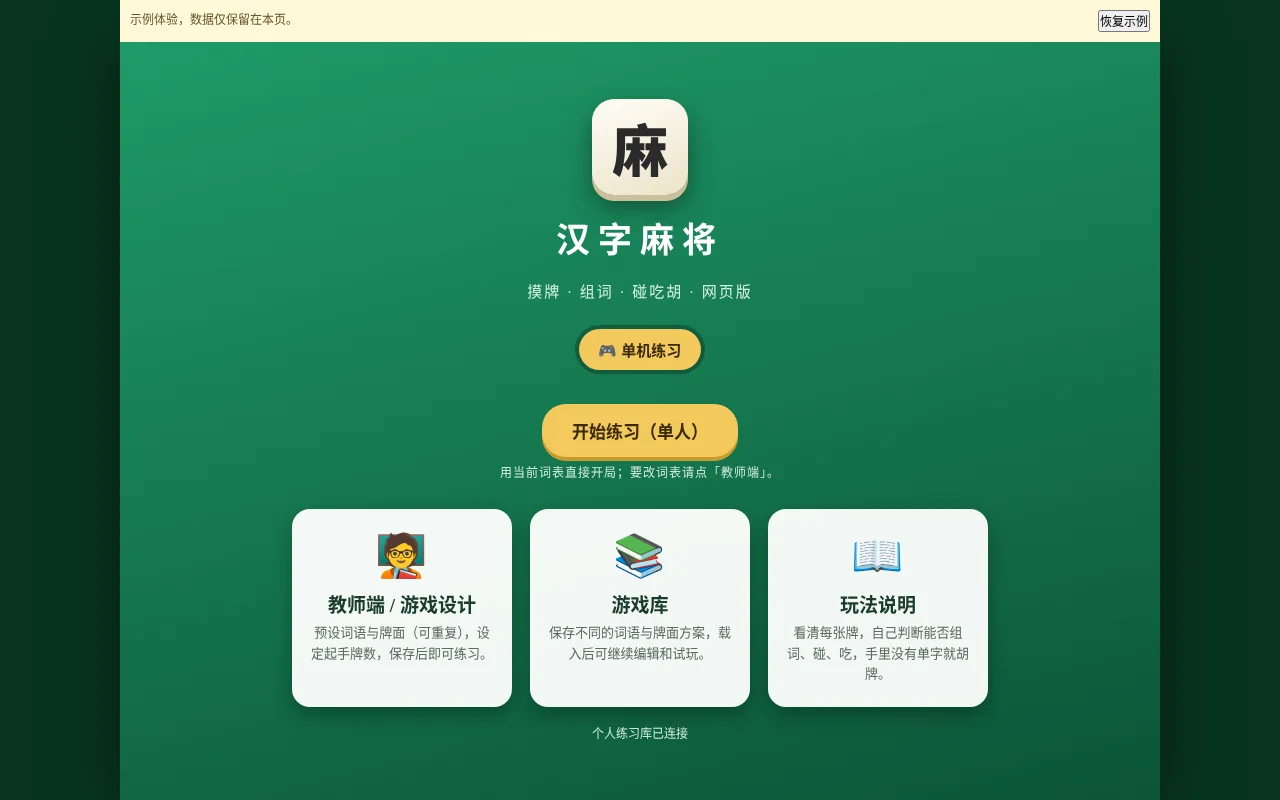
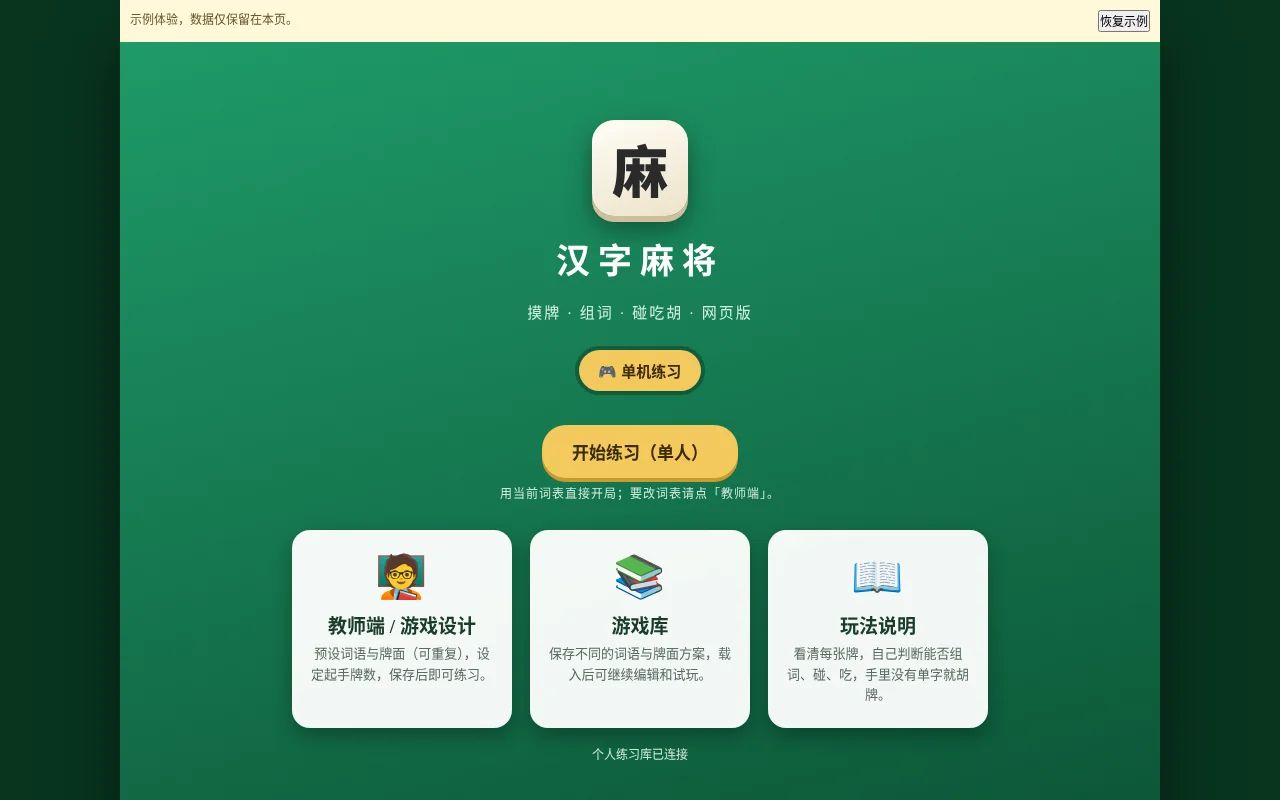
fix(wb-hanzi-mahjong): preserve hosted footer in normal document flow

Changed region(s): [[0.2188, 0.125, 0.7812, 0.9688]]

diff --git a/wb-hanzi-mahjong/showcase/preview.html b/wb-hanzi-mahjong/showcase/preview.html
@@ -1,4 +1,4 @@
-<!doctype html><html lang="zh-CN"><head><meta charset="UTF-8"><meta name="viewport" content="width=device-width,initial-scale=1"><title>汉字麻将 · 示例体验</title><style>body{flex-direction:column;align-items:center}body>aside{width:min(100vw,1040px);flex-shrink:0}#app{height:calc(100dvh - 42px)}</style></head><body><aside style="font:12px system-ui;background:#fff8d9;color:#68562a;padding:10px;display:flex;justify-content:space-between;gap:10px;position:relative;z-index:100"><span>示例体验，数据仅保留在本页。</span><button id="demo-reset" style="font:inherit;cursor:pointer">恢复示例</button></aside><div id="app"></div><script>"use strict";(()=>{function de(){return globalThis.crypto?.randomUUID?.()||Array.from(globalThis.crypto.getRandomValues(new Uint8Array(16)),e=>e.toString(16).padStart(2,"0")).join("")}var R=class{constructor({id:t=de(),read:i,insert:r,args:a}){this.id=t,this.read=i,this.insert=r,this.args=Object.freeze([...a(t)]),this.saved=!1,this.pending=null}async run(t){if(this.saved)return{status:"already-saved",id:this.id};if(this.pending)return this.pending;this.pending=this.perform(t);try{return await this.pending}finally{this.pending=null}}async perform(t){if((await t(this.read,[this.id])).length)return this.saved=!0,{status:"confirmed-by-read",id:this.id};try{return await t(this.insert,this.args),this.saved=!0,{status:"saved",id:this.id}}catch{try{if((await t(this.read,[this.id])).length)return this.saved=!0,{status:"confirmed-after-response-loss",id:this.id}}catch{}throw Error("\u4FDD\u5B58\u5C1A\u672A\u786E\u8BA4\u3002\u518D\u6B21\u4FDD\u5B58\u4F1A\u5148\u6838\u5BF9\u540C\u4E00\u8BB0\u5F55\uFF0C\u8BF7\u52FF\u53E6\u5EFA\u526F\u672C\u3002")}}};var A=["\u4E2D\u56FD","\u4EBA\u6C11","\u6587\u5316","\u5C71\u6C34","\u5B66\u4E60","\u670B\u53CB","\u5929\u7A7A","\u5927\u5730","\u5B66\u6821","\u8001\u5E08"];function P(e){let t={};for(let i of e)t[i]=(t[i]||0)+1;return t}function I(e,t){let i=P(e);return[...t].every(r=>--i[r]>=0)}function q(e,t){return t.find(i=>i.length===e.length&&I(e,i))||null}function $(e,t,i=new Map){let r=[...e].sort().join("");if(!r)return[];if(i.has(r))return i.get(r);for(let a of t){if(!a.includes(r[0])||!I(e,a))continue;let s=[...e];for(let g of a)s.splice(s.indexOf(g),1);let p=$(s,t,i);if(p){let g=[a,...p];return i.set(r,g),g}}return i.set(r,null),null}function pe(e,t=Math.random){for(let i=e.length-1;i>0;i--){let r=Math.floor(t()*(i+1));[e[i],e[r]]=[e[r],e[i]]}return e}var D=class{constructor(t,i=Math.random){if(this.config=t,this.rng=i,this.wall=pe([...t.tiles],i),this.wall.length<t.handSize*4+1)throw Error("\u724C\u9762\u4E0D\u8DB3\uFF0C\u8BF7\u589E\u52A0\u4EFD\u6570\u6216\u51CF\u5C11\u8D77\u624B\u724C\u3002");this.hands=[[],[],[],[]],this.melds=[[],[],[],[]],this.scores=[1e3,1e3,1e3,1e3],this.discards=[],this.turn=0,this.phase="turn",this.winner=null,this.log=[];for(let r=0;r<t.handSize;r++)for(let a of this.hands)a.push(this.wall.pop());this.draw()}draw(){if(!this.wall.length){this.phase="end",this.log.push("\u724C\u5DF2\u6478\u5C3D\uFF0C\u672C\u5C40\u6D41\u5C40");return}this.hands[this.turn].push(this.wall.pop()),this.phase="turn"}remove(t,i){for(let r of i)this.hands[t].splice(this.hands[t].indexOf(r),1)}words(t){return this.config.words.filter(i=>I(this.hands[t],i))}meld(t,i,r=!1){let a=[...i];r&&a.splice(a.indexOf(this.last.tile),1),this.remove(t,a),this.melds[t].push(i),this.scores[t]+=r?20:10,this.log.push(`${t===0?"\u6211":"\u7535\u8111"+t}\uFF1A${r?"\u78B0\u5403":"\u7EC4\u8BCD"}\u300C${i}\u300D`),r&&this.discards.pop()}win(t,i=null){let r=i!==null&&this.last?.by===i?[this.last.tile]:[];if(this.winningWords=$([...this.hands[t],...r],this.config.words)||[],this.winner=t,this.scores[t]+=300,i===null)for(let a=0;a<4;a++)a!==t&&(this.scores[a]-=100);else this.scores[i]-=300;this.phase="end",this.log.push(`${t===0?"\u6211":"\u7535\u8111"+t}${i===null?"\u81EA\u6478":"\u80E1\u724C"}\uFF01`)}self(t){if(this.phase!=="turn"||this.turn!==0)throw Error("\u8BF7\u7B49\u5F85\u4F60\u7684\u56DE\u5408");let i=q(t.map(r=>this.hands[0][r]),this.config.words);if(!i)throw Error("\u9009\u4E2D\u7684\u6C49\u5B57\u5C1A\u4E0D\u80FD\u7EC4\u6210\u8BCD\u5E93\u4E2D\u7684\u8BCD");this.meld(0,i),this.hands[0].length||this.win(0)}hu(){let t=this.phase==="claim"?[this.last.tile]:[];if($([...this.hands[0],...t],this.config.words)===null)throw Error("\u4ECD\u6709\u843D\u5355\u7684\u5B57\uFF0C\u6682\u65F6\u4E0D\u80FD\u80E1\u724C");this.win(0,this.phase==="claim"?this.last.by:null)}discard(t){if(this.phase!=="turn"||this.turn!==0)throw Error("\u5F53\u524D\u4E0D\u80FD\u51FA\u724C");if(!Number.isInteger(t)||t<0||t>=this.hands[0].length)throw Error("\u8BF7\u9009\u62E9\u4E00\u5F20\u724C");this.put(0,t),this.resolve()}put(t,i){let r=this.hands[t].splice(i,1)[0];this.last={tile:r,by:t},this.discards.push(this.last)}claim(t,i){if(this.phase!=="claim")throw Error("\u5F53\u524D\u6CA1\u6709\u5F85\u54CD\u5E94\u5F03\u724C");if(i==="\u5403"&&this.last.by!==3)throw Error("\u53EA\u80FD\u5403\u4E0A\u5BB6\u5F03\u724C");let r=q([...t.map(a=>this.hands[0][a]),this.last.tile],this.config.words);if(!r)throw Error("\u5F03\u724C\u4E0E\u6240\u9009\u624B\u724C\u4E0D\u80FD\u7EC4\u6210\u8BCD");this.meld(0,r,!0),this.turn=0,this.phase="turn",this.hands[0].length||this.win(0,this.last.by)}resolve(){let{tile:t,by:i}=this.last;for(let r=1;r<4;r++){let a=(i+r)%4;if(a&&$([...this.hands[a],t],this.config.words)!==null){this.win(a,i);return}}if(i!==0){this.phase="claim";return}this.pass()}pass(){let{tile:t,by:i}=this.last;for(let r=1;r<4;r++){let a=(i+r)%4;if(!a)continue;let s=this.config.words.find(p=>p.includes(t)&&I([...this.hands[a],t],p));if(s){this.meld(a,s,!0),this.turn=a,this.phase="turn";return}}this.turn=(i+1)%4,this.draw()}ai(){if(this.phase!=="turn"||this.turn===0)return;let t=this.turn;if($(this.hands[t],this.config.words)!==null){this.win(t);return}for(;this.words(t).length;)this.meld(t,this.words(t)[0]);if(!this.hands[t].length){this.win(t);return}let i=0,r=-1/0;for(let a=0;a<this.hands[t].length;a++){let s=this.hands[t].filter((V,J)=>a!==J),p=P(s),g=this.config.words.reduce((V,J)=>V+[...J].reduce((oe,le)=>oe+(p[le]?1:0),0)**2,0)+this.rng();g>r&&(i=a,r=g)}this.put(t,i),this.resolve()}};var ce={practice_sets:[{id:"example-vocabulary",name:"\u5E38\u7528\u6C49\u5B57",config:'{"words": ["\u4E2D\u56FD", "\u4EBA\u6C11", "\u6587\u5316", "\u5C71\u6C34", "\u5B66\u4E60", "\u670B\u53CB", "\u5929\u7A7A", "\u5927\u5730", "\u5B66\u6821", "\u8001\u5E08"], "tiles": ["\u4E2D", "\u56FD", "\u4EBA", "\u6C11", "\u6587", "\u5316", "\u5C71", "\u6C34", "\u5B66", "\u4E60", "\u670B", "\u53CB", "\u5929", "\u7A7A", "\u5927", "\u5730", "\u5B66", "\u6821", "\u8001", "\u5E08", "\u4E2D", "\u56FD", "\u4EBA", "\u6C11", "\u6587", "\u5316", "\u5C71", "\u6C34", "\u5B66", "\u4E60", "\u670B", "\u53CB", "\u5929", "\u7A7A", "\u5927", "\u5730", "\u5B66", "\u6821", "\u8001", "\u5E08", "\u4E2D", "\u56FD", "\u4EBA", "\u6C11", "\u6587", "\u5316", "\u5C71", "\u6C34", "\u5B66", "\u4E60", "\u670B", "\u53CB", "\u5929", "\u7A7A", "\u5927", "\u5730", "\u5B66", "\u6821", "\u8001", "\u5E08"], "handSize": 8}',updated_at:"2026-01-01T10:00:00Z"}],round_reports:[]},k;function H(){k=JSON.parse(JSON.stringify(ce))}H();async function z(e,t=[]){let i=(e.match(/(?:FROM|INTO)\s+(\w+)/i)||[])[1];if(!i)throw Error("\u793A\u4F8B\u64CD\u4F5C\u4E0D\u652F\u6301");if(k[i]??=[],/^SELECT/i.test(e)){let r=[...k[i]];/WHERE id=\?/i.test(e)&&(r=r.filter(s=>s.id===t[0])),/ORDER BY (score|hits) DESC/i.test(e)&&r.sort((s,p)=>p.score-s.score),/ORDER BY .* DESC/i.test(e)&&!/score/i.test(e)&&r.reverse();let a=+(e.match(/LIMIT (\d+)/i)||[])[1]||100;return r.slice(0,a)}if(/^INSERT/i.test(e)){if(k[i].some(a=>a.id===t[0]))return[];let r=e.match(/\(([^)]+)\)/)[1].split(",");return k[i].push(Object.fromEntries(r.map((a,s)=>[a.trim(),t[s]]))),[]}if(/^DELETE/i.test(e))return k[i]=k[i].filter(r=>r.id!==t[0]),[];throw Error("\u793A\u4F8B\u64CD\u4F5C\u4E0D\u652F\u6301")}var X=`
+<!doctype html><html lang="zh-CN"><head><meta charset="UTF-8"><meta name="viewport" content="width=device-width,initial-scale=1"><title>汉字麻将 · 示例体验</title><style>body{flex-direction:column;align-items:center}body>aside{width:min(100vw,1040px);flex-shrink:0;margin-inline:auto}#app{height:calc(100dvh - 42px)}</style></head><body><aside style="font:12px system-ui;background:#fff8d9;color:#68562a;padding:10px;display:flex;justify-content:space-between;gap:10px;position:relative;z-index:100"><span>示例体验，数据仅保留在本页。</span><button id="demo-reset" style="font:inherit;cursor:pointer">恢复示例</button></aside><div id="app"></div><script>"use strict";(()=>{function de(){return globalThis.crypto?.randomUUID?.()||Array.from(globalThis.crypto.getRandomValues(new Uint8Array(16)),e=>e.toString(16).padStart(2,"0")).join("")}var R=class{constructor({id:t=de(),read:i,insert:r,args:a}){this.id=t,this.read=i,this.insert=r,this.args=Object.freeze([...a(t)]),this.saved=!1,this.pending=null}async run(t){if(this.saved)return{status:"already-saved",id:this.id};if(this.pending)return this.pending;this.pending=this.perform(t);try{return await this.pending}finally{this.pending=null}}async perform(t){if((await t(this.read,[this.id])).length)return this.saved=!0,{status:"confirmed-by-read",id:this.id};try{return await t(this.insert,this.args),this.saved=!0,{status:"saved",id:this.id}}catch{try{if((await t(this.read,[this.id])).length)return this.saved=!0,{status:"confirmed-after-response-loss",id:this.id}}catch{}throw Error("\u4FDD\u5B58\u5C1A\u672A\u786E\u8BA4\u3002\u518D\u6B21\u4FDD\u5B58\u4F1A\u5148\u6838\u5BF9\u540C\u4E00\u8BB0\u5F55\uFF0C\u8BF7\u52FF\u53E6\u5EFA\u526F\u672C\u3002")}}};var A=["\u4E2D\u56FD","\u4EBA\u6C11","\u6587\u5316","\u5C71\u6C34","\u5B66\u4E60","\u670B\u53CB","\u5929\u7A7A","\u5927\u5730","\u5B66\u6821","\u8001\u5E08"];function P(e){let t={};for(let i of e)t[i]=(t[i]||0)+1;return t}function I(e,t){let i=P(e);return[...t].every(r=>--i[r]>=0)}function q(e,t){return t.find(i=>i.length===e.length&&I(e,i))||null}function $(e,t,i=new Map){let r=[...e].sort().join("");if(!r)return[];if(i.has(r))return i.get(r);for(let a of t){if(!a.includes(r[0])||!I(e,a))continue;let s=[...e];for(let g of a)s.splice(s.indexOf(g),1);let p=$(s,t,i);if(p){let g=[a,...p];return i.set(r,g),g}}return i.set(r,null),null}function pe(e,t=Math.random){for(let i=e.length-1;i>0;i--){let r=Math.floor(t()*(i+1));[e[i],e[r]]=[e[r],e[i]]}return e}var D=class{constructor(t,i=Math.random){if(this.config=t,this.rng=i,this.wall=pe([...t.tiles],i),this.wall.length<t.handSize*4+1)throw Error("\u724C\u9762\u4E0D\u8DB3\uFF0C\u8BF7\u589E\u52A0\u4EFD\u6570\u6216\u51CF\u5C11\u8D77\u624B\u724C\u3002");this.hands=[[],[],[],[]],this.melds=[[],[],[],[]],this.scores=[1e3,1e3,1e3,1e3],this.discards=[],this.turn=0,this.phase="turn",this.winner=null,this.log=[];for(let r=0;r<t.handSize;r++)for(let a of this.hands)a.push(this.wall.pop());this.draw()}draw(){if(!this.wall.length){this.phase="end",this.log.push("\u724C\u5DF2\u6478\u5C3D\uFF0C\u672C\u5C40\u6D41\u5C40");return}this.hands[this.turn].push(this.wall.pop()),this.phase="turn"}remove(t,i){for(let r of i)this.hands[t].splice(this.hands[t].indexOf(r),1)}words(t){return this.config.words.filter(i=>I(this.hands[t],i))}meld(t,i,r=!1){let a=[...i];r&&a.splice(a.indexOf(this.last.tile),1),this.remove(t,a),this.melds[t].push(i),this.scores[t]+=r?20:10,this.log.push(`${t===0?"\u6211":"\u7535\u8111"+t}\uFF1A${r?"\u78B0\u5403":"\u7EC4\u8BCD"}\u300C${i}\u300D`),r&&this.discards.pop()}win(t,i=null){let r=i!==null&&this.last?.by===i?[this.last.tile]:[];if(this.winningWords=$([...this.hands[t],...r],this.config.words)||[],this.winner=t,this.scores[t]+=300,i===null)for(let a=0;a<4;a++)a!==t&&(this.scores[a]-=100);else this.scores[i]-=300;this.phase="end",this.log.push(`${t===0?"\u6211":"\u7535\u8111"+t}${i===null?"\u81EA\u6478":"\u80E1\u724C"}\uFF01`)}self(t){if(this.phase!=="turn"||this.turn!==0)throw Error("\u8BF7\u7B49\u5F85\u4F60\u7684\u56DE\u5408");let i=q(t.map(r=>this.hands[0][r]),this.config.words);if(!i)throw Error("\u9009\u4E2D\u7684\u6C49\u5B57\u5C1A\u4E0D\u80FD\u7EC4\u6210\u8BCD\u5E93\u4E2D\u7684\u8BCD");this.meld(0,i),this.hands[0].length||this.win(0)}hu(){let t=this.phase==="claim"?[this.last.tile]:[];if($([...this.hands[0],...t],this.config.words)===null)throw Error("\u4ECD\u6709\u843D\u5355\u7684\u5B57\uFF0C\u6682\u65F6\u4E0D\u80FD\u80E1\u724C");this.win(0,this.phase==="claim"?this.last.by:null)}discard(t){if(this.phase!=="turn"||this.turn!==0)throw Error("\u5F53\u524D\u4E0D\u80FD\u51FA\u724C");if(!Number.isInteger(t)||t<0||t>=this.hands[0].length)throw Error("\u8BF7\u9009\u62E9\u4E00\u5F20\u724C");this.put(0,t),this.resolve()}put(t,i){let r=this.hands[t].splice(i,1)[0];this.last={tile:r,by:t},this.discards.push(this.last)}claim(t,i){if(this.phase!=="claim")throw Error("\u5F53\u524D\u6CA1\u6709\u5F85\u54CD\u5E94\u5F03\u724C");if(i==="\u5403"&&this.last.by!==3)throw Error("\u53EA\u80FD\u5403\u4E0A\u5BB6\u5F03\u724C");let r=q([...t.map(a=>this.hands[0][a]),this.last.tile],this.config.words);if(!r)throw Error("\u5F03\u724C\u4E0E\u6240\u9009\u624B\u724C\u4E0D\u80FD\u7EC4\u6210\u8BCD");this.meld(0,r,!0),this.turn=0,this.phase="turn",this.hands[0].length||this.win(0,this.last.by)}resolve(){let{tile:t,by:i}=this.last;for(let r=1;r<4;r++){let a=(i+r)%4;if(a&&$([...this.hands[a],t],this.config.words)!==null){this.win(a,i);return}}if(i!==0){this.phase="claim";return}this.pass()}pass(){let{tile:t,by:i}=this.last;for(let r=1;r<4;r++){let a=(i+r)%4;if(!a)continue;let s=this.config.words.find(p=>p.includes(t)&&I([...this.hands[a],t],p));if(s){this.meld(a,s,!0),this.turn=a,this.phase="turn";return}}this.turn=(i+1)%4,this.draw()}ai(){if(this.phase!=="turn"||this.turn===0)return;let t=this.turn;if($(this.hands[t],this.config.words)!==null){this.win(t);return}for(;this.words(t).length;)this.meld(t,this.words(t)[0]);if(!this.hands[t].length){this.win(t);return}let i=0,r=-1/0;for(let a=0;a<this.hands[t].length;a++){let s=this.hands[t].filter((V,J)=>a!==J),p=P(s),g=this.config.words.reduce((V,J)=>V+[...J].reduce((oe,le)=>oe+(p[le]?1:0),0)**2,0)+this.rng();g>r&&(i=a,r=g)}this.put(t,i),this.resolve()}};var ce={practice_sets:[{id:"example-vocabulary",name:"\u5E38\u7528\u6C49\u5B57",config:'{"words": ["\u4E2D\u56FD", "\u4EBA\u6C11", "\u6587\u5316", "\u5C71\u6C34", "\u5B66\u4E60", "\u670B\u53CB", "\u5929\u7A7A", "\u5927\u5730", "\u5B66\u6821", "\u8001\u5E08"], "tiles": ["\u4E2D", "\u56FD", "\u4EBA", "\u6C11", "\u6587", "\u5316", "\u5C71", "\u6C34", "\u5B66", "\u4E60", "\u670B", "\u53CB", "\u5929", "\u7A7A", "\u5927", "\u5730", "\u5B66", "\u6821", "\u8001", "\u5E08", "\u4E2D", "\u56FD", "\u4EBA", "\u6C11", "\u6587", "\u5316", "\u5C71", "\u6C34", "\u5B66", "\u4E60", "\u670B", "\u53CB", "\u5929", "\u7A7A", "\u5927", "\u5730", "\u5B66", "\u6821", "\u8001", "\u5E08", "\u4E2D", "\u56FD", "\u4EBA", "\u6C11", "\u6587", "\u5316", "\u5C71", "\u6C34", "\u5B66", "\u4E60", "\u670B", "\u53CB", "\u5929", "\u7A7A", "\u5927", "\u5730", "\u5B66", "\u6821", "\u8001", "\u5E08"], "handSize": 8}',updated_at:"2026-01-01T10:00:00Z"}],round_reports:[]},k;function H(){k=JSON.parse(JSON.stringify(ce))}H();async function z(e,t=[]){let i=(e.match(/(?:FROM|INTO)\s+(\w+)/i)||[])[1];if(!i)throw Error("\u793A\u4F8B\u64CD\u4F5C\u4E0D\u652F\u6301");if(k[i]??=[],/^SELECT/i.test(e)){let r=[...k[i]];/WHERE id=\?/i.test(e)&&(r=r.filter(s=>s.id===t[0])),/ORDER BY (score|hits) DESC/i.test(e)&&r.sort((s,p)=>p.score-s.score),/ORDER BY .* DESC/i.test(e)&&!/score/i.test(e)&&r.reverse();let a=+(e.match(/LIMIT (\d+)/i)||[])[1]||100;return r.slice(0,a)}if(/^INSERT/i.test(e)){if(k[i].some(a=>a.id===t[0]))return[];let r=e.match(/\(([^)]+)\)/)[1].split(",");return k[i].push(Object.fromEntries(r.map((a,s)=>[a.trim(),t[s]]))),[]}if(/^DELETE/i.test(e))return k[i]=k[i].filter(r=>r.id!==t[0]),[];throw Error("\u793A\u4F8B\u64CD\u4F5C\u4E0D\u652F\u6301")}var X=`
 :root{
   --felt1:#1f9a68; --felt2:#0c5436; --hud:rgba(8,55,36,.9);
   --tile1:#fffdf6; --tile2:#ece2c8; --tile-edge:#d8c9a3; --tile-side:#cdbf9a;
@@ -7,8 +7,8 @@
 }
 *{margin:0;padding:0;box-sizing:border-box;-webkit-tap-highlight-color:transparent}
 html,body{height:100%}
-body{background:#08351f;font-family:"Kaiti SC","STKaiti","KaiTi","\u6977\u4F53","Noto Serif SC",serif;color:var(--ink);display:flex;justify-content:center}
-#app{position:relative;width:min(100vw,1040px);height:100dvh;background:linear-gradient(165deg,var(--felt1),var(--felt2));overflow:hidden;display:flex;flex-direction:column;box-shadow:0 0 60px rgba(0,0,0,.5)}
+body{background:#08351f;font-family:"Kaiti SC","STKaiti","KaiTi","\u6977\u4F53","Noto Serif SC",serif;color:var(--ink);display:block}
+#app{margin-inline:auto;position:relative;width:min(100vw,1040px);height:100dvh;background:linear-gradient(165deg,var(--felt1),var(--felt2));overflow:hidden;display:flex;flex-direction:column;box-shadow:0 0 60px rgba(0,0,0,.5)}
 .screen{position:absolute;inset:0;display:none;flex-direction:column}
 .screen.active{display:flex}
 

diff --git a/wb-hanzi-mahjong/src/style.css b/wb-hanzi-mahjong/src/style.css
@@ -7,8 +7,8 @@
 }
 *{margin:0;padding:0;box-sizing:border-box;-webkit-tap-highlight-color:transparent}
 html,body{height:100%}
-body{background:#08351f;font-family:"Kaiti SC","STKaiti","KaiTi","楷体","Noto Serif SC",serif;color:var(--ink);display:flex;justify-content:center}
-#app{position:relative;width:min(100vw,1040px);height:100dvh;background:linear-gradient(165deg,var(--felt1),var(--felt2));overflow:hidden;display:flex;flex-direction:column;box-shadow:0 0 60px rgba(0,0,0,.5)}
+body{background:#08351f;font-family:"Kaiti SC","STKaiti","KaiTi","楷体","Noto Serif SC",serif;color:var(--ink);display:block}
+#app{margin-inline:auto;position:relative;width:min(100vw,1040px);height:100dvh;background:linear-gradient(165deg,var(--felt1),var(--felt2));overflow:hidden;display:flex;flex-direction:column;box-shadow:0 0 60px rgba(0,0,0,.5)}
 .screen{position:absolute;inset:0;display:none;flex-direction:column}
 .screen.active{display:flex}
 

diff --git a/wb-hanzi-mahjong/spec/product.md b/wb-hanzi-mahjong/spec/product.md
@@ -9,3 +9,5 @@
 牌桌显示剩余牌、积分、弃牌、明词与手牌，电脑暗牌不可见。流局直接显示排名与统计，隐藏胡牌横幅；胡牌先显示自摸或点炮横幅，1200毫秒后填入排名与统计。报告包含组词数、得分、是否胡牌、词表命中率及易错字的实际弃牌和全桌余牌次数。已保存的旧报告若缺失弃余计数，明确显示未记录。小提示结合本局是否胡牌、手牌中已有汉字与词库搭配生成；流局显示牌尽原因及可继续尝试的词语。可重新开局、返回方案。个人方案与局末报告存入数据库，刷新与重新打开可读取。游戏中的即时选牌仅存页面内；离开前提示本局未结束。
 
 应验收覆盖重复字词库判定、无法组词、无效出牌、碰吃、过、自摸与点炮结算、牌尽流局、电脑行动、词库保存与恢复、局末报告保存与刷新，以及手机触控不溢出。
+
+页面正文容器在1040像素上限内居中；顶层采用正常纵向文档流，托管环境提供的页脚完整保留于正文之后，可滚动查看和操作，不遮挡应用入口与牌桌。
